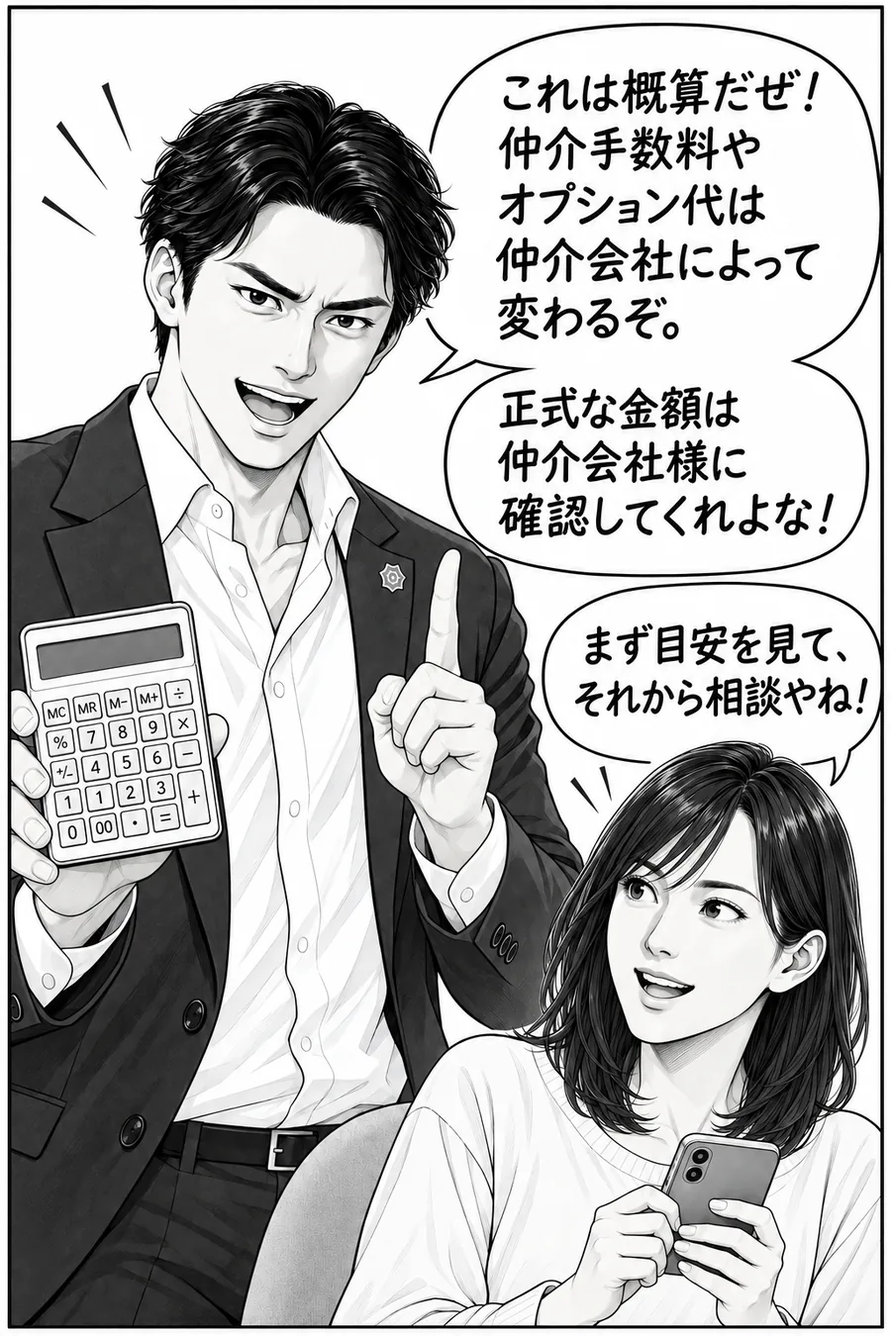
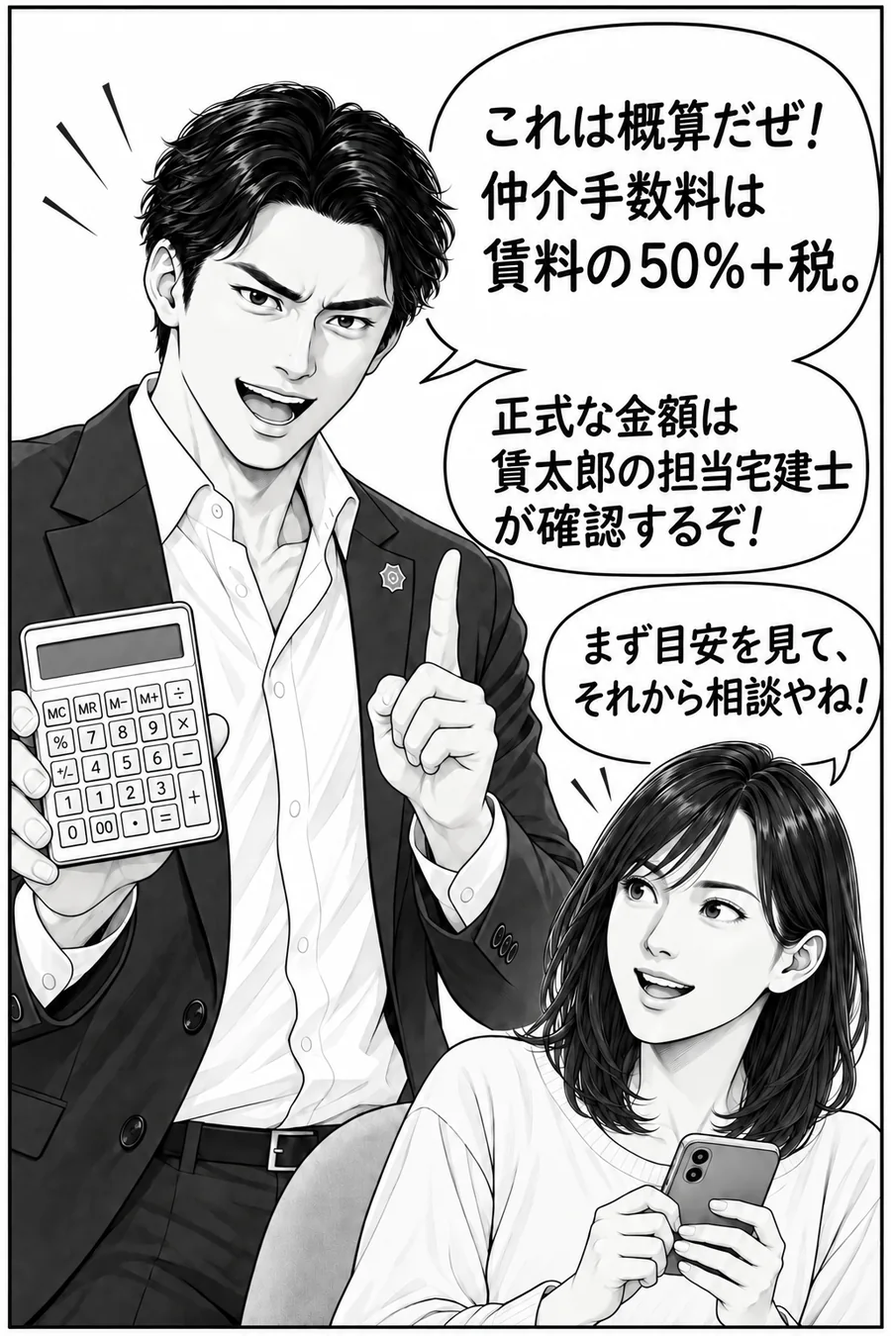
Update Chintaro fee and direct agent guidance

diff --git a/chintaro/index.html b/chintaro/index.html
@@ -1,4 +1,4 @@
 <!doctype html><html lang="ja"><head><meta charset="utf-8"><meta name="viewport" content="width=device-width,initial-scale=1"><link rel="canonical" href="https://lavio.jp/chintaro/"><title>不動産会社様へ | 賃太郎</title><meta name="description" content="初期費用の概算対応を貴社のLINEで。休日の営業担当者を描く漫画と、賃太郎の導入案内。"><style>
 *{box-sizing:border-box}html{color:#172b43;background:#f4f6f8;font-family:-apple-system,BlinkMacSystemFont,'Hiragino Kaku Gothic ProN','Noto Sans JP',sans-serif}body{margin:0}header{background:white;border-bottom:1px solid #e5e9ed;padding:17px 20px;font-weight:700}header a{color:inherit;text-decoration:none}main{max-width:640px;margin:auto;padding:36px 16px 48px}.intro{text-align:center;margin-bottom:30px}.label{font-size:13px;color:#516982;letter-spacing:.1em}h1{font-size:clamp(25px,6vw,34px);line-height:1.5;margin:12px 0}p{font-size:15px;line-height:1.9}.intro p{color:#53657a}.cta{display:inline-block;background:#087a4b;color:white;font-weight:700;padding:17px 23px;border-radius:12px;text-decoration:none;font-size:16px}.sub{font-size:12px;color:#657488;margin:10px 0}figure{margin:0 0 20px;background:white;border-radius:4px;overflow:hidden;box-shadow:0 2px 12px #172b4309}figure img{width:100%;height:auto;display:block}figcaption{text-align:center;font-size:11px;padding:8px;color:#7b8795}.ending{background:white;padding:28px 20px;text-align:center;border-radius:14px;margin-top:30px}h2{font-size:23px;line-height:1.6}.note{font-size:13px;color:#53657a;text-align:left;border-top:1px solid #e5e9ed;padding-top:18px;margin-top:22px}footer{text-align:center;color:#718095;font-size:12px;padding:20px}a:focus-visible{outline:3px solid #4b8ccb;outline-offset:4px}@media(max-width:420px){main{padding:26px 10px 34px}.intro{padding:0 5px}figure{margin-bottom:14px}.cta{font-size:15px;padding:16px 18px}}
 
-.story-title{text-align:center;margin:0 0 25px}.story-title h1{font-size:28px}.body-section{margin:42px 0;padding:28px 22px;background:white;border-radius:14px}.body-section h2{margin:0 0 18px}.body-section h3{font-size:17px;margin:24px 0 8px}.body-section p{color:#53657a;margin:8px 0}.eyebrow{font-size:12px;color:#718095}.demo{text-align:center}.steps{list-style:none;padding:0;counter-reset:steps}.steps li{counter-increment:steps;padding:14px 0;border-bottom:1px solid #e5e9ed;font-size:15px;line-height:1.8}.steps li:before{content:counter(steps);display:inline-grid;place-items:center;width:25px;height:25px;border-radius:50%;background:#e9f1f8;color:#244d73;font-weight:700;margin-right:10px}.prices{display:grid;grid-template-columns:1fr 1fr;gap:12px}.price{padding:20px 12px;border:1px solid #dfe6ed;border-radius:10px}.price dt{font-size:13px;color:#53657a}.price dd{margin:10px 0 0;font-size:29px;font-weight:800}.price dd small{font-size:16px}.notice{font-size:13px!important}.secondary{display:inline-block;color:#244d73;text-decoration:none;border-bottom:1px solid #9eb0c3;margin-top:14px}.faq details{border-bottom:1px solid #e5e9ed;padding:16px 0}.faq summary{cursor:pointer;font-size:15px;font-weight:700;line-height:1.8}.faq details p{font-size:14px}@media(max-width:420px){.body-section{padding:24px 18px}.price dd{font-size:25px}.story-title h1{font-size:25px}}.sr-only{position:absolute;width:1px;height:1px;overflow:hidden;clip-path:inset(50%)}.character{display:flex;align-items:center;gap:18px;margin:25px 0;padding:20px;background:#f2f6fa;border-radius:12px}.character img{width:112px;height:112px;object-fit:cover;border-radius:50%;flex-shrink:0}.character p{font-size:18px;color:#172b43;font-weight:700;line-height:1.8}.body-section ul{padding-left:20px;color:#53657a;font-size:15px;line-height:1.9}.body-section li{margin:10px 0}@media(max-width:420px){.character{gap:12px;padding:15px}.character img{width:82px;height:82px}.character p{font-size:16px}}.developer-head{display:flex;gap:20px;align-items:center;margin:18px 0}.developer-head img{width:112px;height:140px;object-fit:cover;object-position:center;border-radius:12px}.developer-head h3{font-size:14px;font-weight:400;color:#718095;letter-spacing:.03em;margin:0 0 8px}.interview-item{padding:20px 0;border-bottom:1px solid #e5e9ed}.interview-item h3{font-size:16px;line-height:1.8;margin:0 0 10px}.interview-item p{font-size:15px}.case-label{display:inline-block;font-size:12px;background:#eaf5ee;color:#286147;padding:6px 11px;border-radius:20px}.case-card{text-align:left}.case-card .cta{margin-top:14px}.source{font-size:12px!important}.source a{color:#53657a}@media(max-width:420px){.developer-head{gap:15px}.developer-head img{width:90px;height:115px}}</style></head><body><header><a href="#">賃太郎 <small>｜不動産会社様へ</small></a></header><main><h1 class="sr-only">不動産営業マンのあるある。今日は、家族との時間。</h1><section aria-label="遊園地の漫画・全10コマ"><figure><img src="assets/panel-01.webp" width="900" height="1350" alt="パパ！次、あれ乗ろう！ よっしゃ、行こう！" loading="eager" decoding="async"><figcaption>01 / 10</figcaption></figure><figure><img src="assets/panel-02.webp" width="900" height="1350" alt="Customer chat: この3件、初期費用を知りたいです！ / Sound effect: ピコン" loading="lazy" decoding="async"><figcaption>02 / 10</figcaption></figure><figure><img src="assets/panel-03.webp" width="900" height="1350" alt="Father thought: 見積もりか…今すぐ作らないと。 / Father thought: うわっ、しかも3件も…！" loading="lazy" decoding="async"><figcaption>03 / 10</figcaption></figure><figure><img src="assets/panel-04.webp" width="900" height="1350" alt="Wife: また仕事？休みなんだから、帰ってからにしたら？" loading="lazy" decoding="async"><figcaption>04 / 10</figcaption></figure><figure><img src="assets/panel-05.webp" width="900" height="1350" alt="Father: でも、今送らないと他社に行かれてしまうんだ… / Son: パパ、一緒に乗らないの？" loading="lazy" decoding="async"><figcaption>05 / 10</figcaption></figure><figure><img src="assets/panel-06.webp" width="900" height="1350" alt="Chintaro phone: こいつが初期費用の概算だぜ！ / Father: え？もう返信されてる！" loading="lazy" decoding="async"><figcaption>06 / 10</figcaption></figure><figure><img src="assets/panel-07.webp" width="900" height="1350" alt="あ！会社のLINEに、賃太郎を入れたんだった！ 初期費用の概算は、俺に任せときな！" loading="lazy" decoding="async"><figcaption>07 / 10</figcaption></figure><figure><img src="assets/panel-08.webp" width="900" height="1350" alt="Customer chat: ありがとうございます！まず目安が分かって助かりました！ / Father thought: よかった。正式な条件確認は、戻ってから対応しよう" loading="lazy" decoding="async"><figcaption>08 / 10</figcaption></figure><figure><img src="assets/panel-09.webp" width="900" height="1350" alt="Father: お待たせ！一緒に乗ろう！ / Son: やったー！" loading="lazy" decoding="async"><figcaption>09 / 10</figcaption></figure><figure><img src="assets/panel-10.webp" width="900" height="1350" alt="Caption: お客様の「今知りたい」に応える。 / Caption: 家族との時間も、大切にする。" loading="lazy" decoding="async"><figcaption>10 / 10</figcaption></figure></section><section class="body-section"><span class="eyebrow">不動産会社様へ</span><h2>初期費用の概算対応、<br>賃太郎に任せませんか？</h2><p>接客中も、営業時間外も、休日も。<br>お客様の「初期費用を知りたい」は届きます。</p><p>そのたびに物件情報を確認して、費用を拾って、日割りを計算して…。お客様が複数の部屋を比較していると、見積もりの数も増えていきます。</p><p>賃太郎は、その初期費用の概算をLINEで自動返信するサービスです。</p><div class="character"><img src="assets/chintaro.webp" width="360" height="360" alt="AI社員・賃太郎" loading="lazy"><p>「初期費用の概算は、<br>俺に任せときな！」</p></div><h3>貴社のLINEに、概算を案内する窓口を。</h3><p>お客様がSUUMOの物件URLと入居希望日を送ると、掲載情報に基づく初期費用の概算を案内します。</p><p>営業担当者様がすぐに動けないときも、お客様は用意するお金の目安を確認できます。</p></section><style>.cost-organizer h2{font-size:27px;line-height:1.55}.cost-organizer .cost-lead{font-size:15px;margin-bottom:24px}.cost-step{margin:22px 0 10px;display:flex;gap:9px;align-items:center;font-size:14px;font-weight:700;color:#244d73}.cost-step b{display:inline-grid;place-items:center;width:26px;height:26px;border-radius:50%;background:#e8f0f6;font-size:12px}.cost-source{padding:16px;background:#f3f5f7;border-radius:9px;color:#53657a;font-size:14px;line-height:1.8}.cost-categories{display:grid;grid-template-columns:repeat(2,minmax(0,1fr));gap:10px}.cost-category{padding:16px 13px;border:1px solid #e0e6eb;border-radius:9px;background:#fff}.cost-category strong{display:block;font-size:16px;color:#244d73}.cost-category span{display:block;margin-top:7px;font-size:12px;line-height:1.7;color:#647386}.cost-category.initial{border:2px solid #57a58b;background:#f1faf6}.cost-category.initial strong{color:#23775b}.cost-result{padding:22px 16px;text-align:center;background:#eaf6f0;border-radius:10px;border:1px solid #c7e4d5}.cost-result span{display:block;font-size:13px;color:#476b5b;line-height:1.8}.cost-result strong{display:block;font-size:22px;line-height:1.6;color:#236549;margin-top:9px}.cost-organizer .cost-note{margin-top:16px;font-size:12px;line-height:1.8}@media(max-width:480px){.cost-organizer h2{font-size:24px}.cost-category{padding:14px 10px}.cost-category strong{font-size:15px}.cost-result strong{font-size:20px}}</style><section class="body-section cost-organizer"><h2>初期費用に必要な金額を、<br>見分けて計算。</h2><p class="cost-lead">文章に混在した費用を、支払う時期ごとに整理します。</p><div class="cost-step"><b>1</b>金額と条件を読み取る</div><div class="cost-source">SUUMOの掲載情報<br>家賃・保証料・保険料・各種手数料…</div><div class="cost-step"><b>2</b>4つの支払時期に分類</div><div class="cost-categories" aria-label="費用の分類例"><div class="cost-category"><strong>毎月</strong><span>家賃・月額保証料など</span></div><div class="cost-category initial"><strong>初期</strong><span>敷金・礼金・初回保証料など</span></div><div class="cost-category"><strong>更新時</strong><span>更新料・更新保証料など</span></div><div class="cost-category"><strong>退去時</strong><span>退去時に支払う清掃費など</span></div></div><div class="cost-step"><b>3</b>契約時に必要な分を合計</div><div class="cost-result"><span>初期の費用 ＋ 日割り・前払い分</span><strong>初期費用の概算を算出</strong></div><p class="cost-note">※分類は掲載条件によります。月額費用も、日割り・前払い分は初期費用に含めます。<br>不明な費用は確認事項として表示。正式な金額は仲介会社様でご確認ください。</p></section><section class="body-section"><h2>お客様は目安を確認。<br>担当者様は、ご相談やご案内へ。</h2><p>「まず金額だけ知りたい」というお客様には、賃太郎が概算を案内。正式な費用の確認、物件のご相談、内見や契約の対応は、仲介会社様が行います。</p><p>概算対応を自動化して、担当者様が接客やご案内に使える時間をつくります。</p><h3>こんな場面で使えます</h3><ul><li>接客中で、すぐに見積もりを作れないとき</li><li>営業時間外に、初期費用の問い合わせが届いたとき</li><li>お客様が、気になる部屋の費用を比較したいとき</li></ul></section><style>.body-section.experience{background:#18334b;color:#fff;padding:34px 26px;border-radius:16px}.experience .experience-tag{display:inline-block;font-size:12px;letter-spacing:.08em;color:#bce9df;margin-bottom:18px}.body-section.experience h2{font-size:30px;line-height:1.55;color:#fff;margin-bottom:24px}.experience h2 span{color:#a5ead4}.body-section.experience p{color:#e0e9ef;font-weight:400;line-height:1.95;font-size:15px}.experience-flow{display:flex;align-items:center;gap:8px;margin-bottom:24px}.experience-flow span{flex:1;text-align:center;padding:13px 8px;background:#ffffff12;border:1px solid #ffffff25;border-radius:8px;font-size:12px;font-weight:700}.experience-flow b{color:#a5ead4}@media(max-width:480px){.body-section.experience{padding:28px 20px}.body-section.experience h2{font-size:25px}.experience-flow{flex-direction:column;gap:5px}.experience-flow span{width:100%;box-sizing:border-box}.experience-flow b{transform:rotate(90deg);font-size:14px}}</style><section class="body-section experience"><span class="experience-tag">貴社のLINEに、新しい体験を。</span><h2>連絡するLINEから、<br><span>体験できるLINEへ。</span></h2><div class="experience-flow"><span>自分で操作</span><b aria-hidden="true">→</b><span>費用の目安を確認</span><b aria-hidden="true">→</b><span>他社との違いを体験</span></div><p>LINE公式アカウントの役割は、連絡や資料のやり取りだけではありません。</p><p>お客様が自分で物件URLを送り、初期費用の目安を確認できる。賃太郎を導入すると、貴社のLINEに、お客様自身が操作して体験できる機能が加わります。</p><p>便利さを説明するだけでなく、実際に使って感じていただく。その体験が、他社との違いを伝え、貴社のLINE公式アカウントを差別化するきっかけになります。</p></section><section class="body-section"><h2>お客様の操作は、シンプル。</h2><ol class="steps"><li>SUUMOの物件URLを送信</li><li>入居希望日を送信</li><li>初期費用の概算を確認</li></ol><a class="secondary" href="https://lavio.jp/chintaro/how-to/">お客様向けの使い方を見る →</a></section><section class="body-section demo"><h2>まずは実際の物件で、<br>お試しください。</h2><p>デモLINEにSUUMOの物件URLを送って、<br>お客様に届く概算をご確認いただけます。</p><a class="cta" href="https://line.me/R/ti/p/@693ywjds">賃太郎を実際に試してみる</a></section><section class="body-section" id="developer"><span class="eyebrow">開発・運営</span><h2>AIで、不動産会社様の<br>業務をアシストしたい。</h2><div class="developer-head"><img src="assets/developer-ogawa.webp" width="400" height="500" loading="lazy" alt="開発・運営 小川裕介"><div><h3>Yusuke Ogawa</h3><p>AI Realty Assist 開発・運営</p></div></div><ul><li>元 大東建託株式会社 マーケティング企画課長</li><li>元 大東建託リーシング株式会社 梅田店長</li></ul><p>不動産の現場で培った経験をもとに、AIで不動産会社様の業務をアシストしたいと考えています。</p><p>日々の対応の負担を減らし、お客様と向き合う時間をつくる。そのために、現場で役立つ機能の開発・改善に取り組んでいます。</p></section><section class="body-section" id="interview"><span class="eyebrow">開発者インタビュー</span><h2>なぜ、初期費用の概算を<br>自動化したのか。</h2><article class="interview-item"><h3>Q. 以前、一番困っていたことは？</h3><p>初期費用をExcelで作り、PDFにして送るまでに時間がかかることです。せっかく作っても、送る頃には他社が先に回答していることがありました。</p></article><article class="interview-item"><h3>Q. 自動見積もりで何が変わりましたか？</h3><p>お客様が物件URLと入居希望日を送れば、AIが先に概算を返します。担当者は外出先で内容を確認し、必要があれば補足するだけになりました。</p></article><article class="interview-item"><h3>Q. どんな会社に向いていますか？</h3><p>SNSから公式LINEへ見込み客を集めている、中小・個人経営の賃貸仲介会社です。LINEを連絡窓口から「お客様が使える機能」に変えられます。</p></article><article class="interview-item"><h3>Q. なぜ今、この機能が必要ですか？</h3><p>今は、お客様自身がポータルサイトで物件を探し、不動産会社へ確認する時代です。その行動に合った、速くて分かりやすい窓口が必要だと考えています。</p></article></section><section class="body-section case-card" id="rabio-case"><span class="case-label">導入事例</span><h2 style="margin-top:16px">実際に現場で導入されている<br>事例を見る</h2><p>大東建託物件専門「らびお」の公式LINE</p><a class="cta" href="https://lin.ee/6dwYhc3">導入事例を見る</a></section><section class="body-section"><h2>賃太郎の導入料金</h2><dl class="prices"><div class="price"><dt>初期設定料</dt><dd>29,700<small>円</small></dd></div><div class="price"><dt>月額料金</dt><dd>なし</dd></div></dl><p>貴社のLINE公式アカウントで、賃貸初期費用の概算機能をご利用いただくプランです。</p><style>.customize{margin-top:24px;padding:22px 20px;background:#f2f7fa;border-left:4px solid #4f91ae;border-radius:0 10px 10px 0}.customize h3{margin:0 0 10px;font-size:20px;color:#244d73}.customize p{font-size:14px}.customize ul{padding-left:20px;margin:14px 0 0;color:#53657a;font-size:14px;line-height:1.9}</style><aside class="customize"><h3>貴社仕様の賃太郎に。</h3><p>仲介手数料の設定、AIの名前、予約・確認へのご案内まで。<br>貴社の運用に合わせてカスタマイズできます。</p><ul><li>仲介手数料：貴社の料金設定に</li><li>AI名：「賃太郎」からお好きな名前に</li><li>予約・確認の導線：貴社の受付方法に</li></ul></aside></section><section class="body-section faq"><h2>よくあるご質問</h2><details><summary>SUUMO以外のサイトでもできますか？</summary><p>現在はSUUMOのみ対応しています。他のポータルサイトにも順次対応を進めていきます。</p></details></section><section class="body-section"><h2>概算見積もりについて</h2><p class="notice">掲載情報に基づく概算のため、情報の不足や審査・契約条件によって、実際の支払額とは異なる場合があります。正式な金額は仲介会社様でご確認ください。</p><p class="notice">仲介手数料は賃料1か月分（税別）で計算しています。仲介手数料・駐車場手数料・その他オプション費用は、仲介会社によって設定が異なります。</p></section><section class="body-section demo"><h2>導入について、ご相談ください。</h2><p>LINEで「導入相談」とお送りください。<br>運営より後ほどメッセージをお送りいたします。</p><p>ご質問や、導入したいLINEアカウントについても、あわせてお知らせください。</p><a class="cta" href="https://line.me/R/ti/p/@693ywjds">LINEで導入を相談する</a><h3>他業種の方も、ご相談いただけます。</h3><p class="notice">LINEを使った業務についてのご相談も承ります。業種と、ご希望の内容をお送りください。</p></section></main><footer>賃太郎 ｜ 運営：AIRA</footer></body></html>
+.story-title{text-align:center;margin:0 0 25px}.story-title h1{font-size:28px}.body-section{margin:42px 0;padding:28px 22px;background:white;border-radius:14px}.body-section h2{margin:0 0 18px}.body-section h3{font-size:17px;margin:24px 0 8px}.body-section p{color:#53657a;margin:8px 0}.eyebrow{font-size:12px;color:#718095}.demo{text-align:center}.steps{list-style:none;padding:0;counter-reset:steps}.steps li{counter-increment:steps;padding:14px 0;border-bottom:1px solid #e5e9ed;font-size:15px;line-height:1.8}.steps li:before{content:counter(steps);display:inline-grid;place-items:center;width:25px;height:25px;border-radius:50%;background:#e9f1f8;color:#244d73;font-weight:700;margin-right:10px}.prices{display:grid;grid-template-columns:1fr 1fr;gap:12px}.price{padding:20px 12px;border:1px solid #dfe6ed;border-radius:10px}.price dt{font-size:13px;color:#53657a}.price dd{margin:10px 0 0;font-size:29px;font-weight:800}.price dd small{font-size:16px}.notice{font-size:13px!important}.secondary{display:inline-block;color:#244d73;text-decoration:none;border-bottom:1px solid #9eb0c3;margin-top:14px}.faq details{border-bottom:1px solid #e5e9ed;padding:16px 0}.faq summary{cursor:pointer;font-size:15px;font-weight:700;line-height:1.8}.faq details p{font-size:14px}@media(max-width:420px){.body-section{padding:24px 18px}.price dd{font-size:25px}.story-title h1{font-size:25px}}.sr-only{position:absolute;width:1px;height:1px;overflow:hidden;clip-path:inset(50%)}.character{display:flex;align-items:center;gap:18px;margin:25px 0;padding:20px;background:#f2f6fa;border-radius:12px}.character img{width:112px;height:112px;object-fit:cover;border-radius:50%;flex-shrink:0}.character p{font-size:18px;color:#172b43;font-weight:700;line-height:1.8}.body-section ul{padding-left:20px;color:#53657a;font-size:15px;line-height:1.9}.body-section li{margin:10px 0}@media(max-width:420px){.character{gap:12px;padding:15px}.character img{width:82px;height:82px}.character p{font-size:16px}}.developer-head{display:flex;gap:20px;align-items:center;margin:18px 0}.developer-head img{width:112px;height:140px;object-fit:cover;object-position:center;border-radius:12px}.developer-head h3{font-size:14px;font-weight:400;color:#718095;letter-spacing:.03em;margin:0 0 8px}.interview-item{padding:20px 0;border-bottom:1px solid #e5e9ed}.interview-item h3{font-size:16px;line-height:1.8;margin:0 0 10px}.interview-item p{font-size:15px}.case-label{display:inline-block;font-size:12px;background:#eaf5ee;color:#286147;padding:6px 11px;border-radius:20px}.case-card{text-align:left}.case-card .cta{margin-top:14px}.source{font-size:12px!important}.source a{color:#53657a}@media(max-width:420px){.developer-head{gap:15px}.developer-head img{width:90px;height:115px}}</style></head><body><header><a href="#">賃太郎 <small>｜不動産会社様へ</small></a></header><main><h1 class="sr-only">不動産営業マンのあるある。今日は、家族との時間。</h1><section aria-label="遊園地の漫画・全10コマ"><figure><img src="assets/panel-01.webp" width="900" height="1350" alt="パパ！次、あれ乗ろう！ よっしゃ、行こう！" loading="eager" decoding="async"><figcaption>01 / 10</figcaption></figure><figure><img src="assets/panel-02.webp" width="900" height="1350" alt="Customer chat: この3件、初期費用を知りたいです！ / Sound effect: ピコン" loading="lazy" decoding="async"><figcaption>02 / 10</figcaption></figure><figure><img src="assets/panel-03.webp" width="900" height="1350" alt="Father thought: 見積もりか…今すぐ作らないと。 / Father thought: うわっ、しかも3件も…！" loading="lazy" decoding="async"><figcaption>03 / 10</figcaption></figure><figure><img src="assets/panel-04.webp" width="900" height="1350" alt="Wife: また仕事？休みなんだから、帰ってからにしたら？" loading="lazy" decoding="async"><figcaption>04 / 10</figcaption></figure><figure><img src="assets/panel-05.webp" width="900" height="1350" alt="Father: でも、今送らないと他社に行かれてしまうんだ… / Son: パパ、一緒に乗らないの？" loading="lazy" decoding="async"><figcaption>05 / 10</figcaption></figure><figure><img src="assets/panel-06.webp" width="900" height="1350" alt="Chintaro phone: こいつが初期費用の概算だぜ！ / Father: え？もう返信されてる！" loading="lazy" decoding="async"><figcaption>06 / 10</figcaption></figure><figure><img src="assets/panel-07.webp" width="900" height="1350" alt="あ！会社のLINEに、賃太郎を入れたんだった！ 初期費用の概算は、俺に任せときな！" loading="lazy" decoding="async"><figcaption>07 / 10</figcaption></figure><figure><img src="assets/panel-08.webp" width="900" height="1350" alt="Customer chat: ありがとうございます！まず目安が分かって助かりました！ / Father thought: よかった。正式な条件確認は、戻ってから対応しよう" loading="lazy" decoding="async"><figcaption>08 / 10</figcaption></figure><figure><img src="assets/panel-09.webp" width="900" height="1350" alt="Father: お待たせ！一緒に乗ろう！ / Son: やったー！" loading="lazy" decoding="async"><figcaption>09 / 10</figcaption></figure><figure><img src="assets/panel-10.webp" width="900" height="1350" alt="Caption: お客様の「今知りたい」に応える。 / Caption: 家族との時間も、大切にする。" loading="lazy" decoding="async"><figcaption>10 / 10</figcaption></figure></section><section class="body-section"><span class="eyebrow">不動産会社様へ</span><h2>初期費用の概算対応、<br>賃太郎に任せませんか？</h2><p>接客中も、営業時間外も、休日も。<br>お客様の「初期費用を知りたい」は届きます。</p><p>そのたびに物件情報を確認して、費用を拾って、日割りを計算して…。お客様が複数の部屋を比較していると、見積もりの数も増えていきます。</p><p>賃太郎は、その初期費用の概算をLINEで自動返信するサービスです。</p><div class="character"><img src="assets/chintaro.webp" width="360" height="360" alt="AI社員・賃太郎" loading="lazy"><p>「初期費用の概算は、<br>俺に任せときな！」</p></div><h3>貴社のLINEに、概算を案内する窓口を。</h3><p>お客様がSUUMOの物件URLと入居希望日を送ると、掲載情報に基づく初期費用の概算を案内します。</p><p>営業担当者様がすぐに動けないときも、お客様は用意するお金の目安を確認できます。</p></section><style>.cost-organizer h2{font-size:27px;line-height:1.55}.cost-organizer .cost-lead{font-size:15px;margin-bottom:24px}.cost-step{margin:22px 0 10px;display:flex;gap:9px;align-items:center;font-size:14px;font-weight:700;color:#244d73}.cost-step b{display:inline-grid;place-items:center;width:26px;height:26px;border-radius:50%;background:#e8f0f6;font-size:12px}.cost-source{padding:16px;background:#f3f5f7;border-radius:9px;color:#53657a;font-size:14px;line-height:1.8}.cost-categories{display:grid;grid-template-columns:repeat(2,minmax(0,1fr));gap:10px}.cost-category{padding:16px 13px;border:1px solid #e0e6eb;border-radius:9px;background:#fff}.cost-category strong{display:block;font-size:16px;color:#244d73}.cost-category span{display:block;margin-top:7px;font-size:12px;line-height:1.7;color:#647386}.cost-category.initial{border:2px solid #57a58b;background:#f1faf6}.cost-category.initial strong{color:#23775b}.cost-result{padding:22px 16px;text-align:center;background:#eaf6f0;border-radius:10px;border:1px solid #c7e4d5}.cost-result span{display:block;font-size:13px;color:#476b5b;line-height:1.8}.cost-result strong{display:block;font-size:22px;line-height:1.6;color:#236549;margin-top:9px}.cost-organizer .cost-note{margin-top:16px;font-size:12px;line-height:1.8}@media(max-width:480px){.cost-organizer h2{font-size:24px}.cost-category{padding:14px 10px}.cost-category strong{font-size:15px}.cost-result strong{font-size:20px}}</style><section class="body-section cost-organizer"><h2>初期費用に必要な金額を、<br>見分けて計算。</h2><p class="cost-lead">文章に混在した費用を、支払う時期ごとに整理します。</p><div class="cost-step"><b>1</b>金額と条件を読み取る</div><div class="cost-source">SUUMOの掲載情報<br>家賃・保証料・保険料・各種手数料…</div><div class="cost-step"><b>2</b>4つの支払時期に分類</div><div class="cost-categories" aria-label="費用の分類例"><div class="cost-category"><strong>毎月</strong><span>家賃・月額保証料など</span></div><div class="cost-category initial"><strong>初期</strong><span>敷金・礼金・初回保証料など</span></div><div class="cost-category"><strong>更新時</strong><span>更新料・更新保証料など</span></div><div class="cost-category"><strong>退去時</strong><span>退去時に支払う清掃費など</span></div></div><div class="cost-step"><b>3</b>契約時に必要な分を合計</div><div class="cost-result"><span>初期の費用 ＋ 日割り・前払い分</span><strong>初期費用の概算を算出</strong></div><p class="cost-note">※分類は掲載条件によります。月額費用も、日割り・前払い分は初期費用に含めます。<br>不明な費用は確認事項として表示。正式な金額は仲介会社様でご確認ください。</p></section><section class="body-section"><h2>お客様は目安を確認。<br>担当者様は、ご相談やご案内へ。</h2><p>「まず金額だけ知りたい」というお客様には、賃太郎が概算を案内。正式な費用の確認、物件のご相談、内見や契約の対応は、仲介会社様が行います。</p><p>概算対応を自動化して、担当者様が接客やご案内に使える時間をつくります。</p><h3>こんな場面で使えます</h3><ul><li>接客中で、すぐに見積もりを作れないとき</li><li>営業時間外に、初期費用の問い合わせが届いたとき</li><li>お客様が、気になる部屋の費用を比較したいとき</li></ul></section><style>.body-section.experience{background:#18334b;color:#fff;padding:34px 26px;border-radius:16px}.experience .experience-tag{display:inline-block;font-size:12px;letter-spacing:.08em;color:#bce9df;margin-bottom:18px}.body-section.experience h2{font-size:30px;line-height:1.55;color:#fff;margin-bottom:24px}.experience h2 span{color:#a5ead4}.body-section.experience p{color:#e0e9ef;font-weight:400;line-height:1.95;font-size:15px}.experience-flow{display:flex;align-items:center;gap:8px;margin-bottom:24px}.experience-flow span{flex:1;text-align:center;padding:13px 8px;background:#ffffff12;border:1px solid #ffffff25;border-radius:8px;font-size:12px;font-weight:700}.experience-flow b{color:#a5ead4}@media(max-width:480px){.body-section.experience{padding:28px 20px}.body-section.experience h2{font-size:25px}.experience-flow{flex-direction:column;gap:5px}.experience-flow span{width:100%;box-sizing:border-box}.experience-flow b{transform:rotate(90deg);font-size:14px}}</style><section class="body-section experience"><span class="experience-tag">貴社のLINEに、新しい体験を。</span><h2>連絡するLINEから、<br><span>体験できるLINEへ。</span></h2><div class="experience-flow"><span>自分で操作</span><b aria-hidden="true">→</b><span>費用の目安を確認</span><b aria-hidden="true">→</b><span>他社との違いを体験</span></div><p>LINE公式アカウントの役割は、連絡や資料のやり取りだけではありません。</p><p>お客様が自分で物件URLを送り、初期費用の目安を確認できる。賃太郎を導入すると、貴社のLINEに、お客様自身が操作して体験できる機能が加わります。</p><p>便利さを説明するだけでなく、実際に使って感じていただく。その体験が、他社との違いを伝え、貴社のLINE公式アカウントを差別化するきっかけになります。</p></section><section class="body-section"><h2>お客様の操作は、シンプル。</h2><ol class="steps"><li>SUUMOの物件URLを送信</li><li>入居希望日を送信</li><li>初期費用の概算を確認</li></ol><a class="secondary" href="https://lavio.jp/chintaro/how-to/">お客様向けの使い方を見る →</a></section><section class="body-section demo"><h2>まずは実際の物件で、<br>お試しください。</h2><p>デモLINEにSUUMOの物件URLを送って、<br>お客様に届く概算をご確認いただけます。</p><a class="cta" href="https://line.me/R/ti/p/@693ywjds">賃太郎を実際に試してみる</a></section><section class="body-section" id="developer"><span class="eyebrow">開発・運営</span><h2>AIで、不動産会社様の<br>業務をアシストしたい。</h2><div class="developer-head"><img src="assets/developer-ogawa.webp" width="400" height="500" loading="lazy" alt="開発・運営 小川裕介"><div><h3>Yusuke Ogawa</h3><p>AI Realty Assist 開発・運営</p></div></div><ul><li>元 大東建託株式会社 マーケティング企画課長</li><li>元 大東建託リーシング株式会社 梅田店長</li></ul><p>不動産の現場で培った経験をもとに、AIで不動産会社様の業務をアシストしたいと考えています。</p><p>日々の対応の負担を減らし、お客様と向き合う時間をつくる。そのために、現場で役立つ機能の開発・改善に取り組んでいます。</p></section><section class="body-section" id="interview"><span class="eyebrow">開発者インタビュー</span><h2>なぜ、初期費用の概算を<br>自動化したのか。</h2><article class="interview-item"><h3>Q. 以前、一番困っていたことは？</h3><p>初期費用をExcelで作り、PDFにして送るまでに時間がかかることです。せっかく作っても、送る頃には他社が先に回答していることがありました。</p></article><article class="interview-item"><h3>Q. 自動見積もりで何が変わりましたか？</h3><p>お客様が物件URLと入居希望日を送れば、AIが先に概算を返します。担当者は外出先で内容を確認し、必要があれば補足するだけになりました。</p></article><article class="interview-item"><h3>Q. どんな会社に向いていますか？</h3><p>SNSから公式LINEへ見込み客を集めている、中小・個人経営の賃貸仲介会社です。LINEを連絡窓口から「お客様が使える機能」に変えられます。</p></article><article class="interview-item"><h3>Q. なぜ今、この機能が必要ですか？</h3><p>今は、お客様自身がポータルサイトで物件を探し、不動産会社へ確認する時代です。その行動に合った、速くて分かりやすい窓口が必要だと考えています。</p></article></section><section class="body-section case-card" id="rabio-case"><span class="case-label">導入事例</span><h2 style="margin-top:16px">実際に現場で導入されている<br>事例を見る</h2><p>大東建託物件専門「らびお」の公式LINE</p><a class="cta" href="https://lin.ee/6dwYhc3">導入事例を見る</a></section><section class="body-section"><h2>賃太郎の導入料金</h2><dl class="prices"><div class="price"><dt>初期設定料</dt><dd>29,700<small>円</small></dd></div><div class="price"><dt>月額料金</dt><dd>なし</dd></div></dl><p>貴社のLINE公式アカウントで、賃貸初期費用の概算機能をご利用いただくプランです。</p><style>.customize{margin-top:24px;padding:22px 20px;background:#f2f7fa;border-left:4px solid #4f91ae;border-radius:0 10px 10px 0}.customize h3{margin:0 0 10px;font-size:20px;color:#244d73}.customize p{font-size:14px}.customize ul{padding-left:20px;margin:14px 0 0;color:#53657a;font-size:14px;line-height:1.9}</style><aside class="customize"><h3>貴社仕様の賃太郎に。</h3><p>仲介手数料の設定、AIの名前、予約・確認へのご案内まで。<br>貴社の運用に合わせてカスタマイズできます。</p><ul><li>仲介手数料：貴社の料金設定に</li><li>AI名：「賃太郎」からお好きな名前に</li><li>予約・確認の導線：貴社の受付方法に</li></ul></aside></section><section class="body-section faq"><h2>よくあるご質問</h2><details><summary>SUUMO以外のサイトでもできますか？</summary><p>現在はSUUMOのみ対応しています。他のポータルサイトにも順次対応を進めていきます。</p></details></section><section class="body-section"><h2>概算見積もりについて</h2><p class="notice">掲載情報に基づく概算のため、情報の不足や審査・契約条件によって、実際の支払額とは異なる場合があります。正式な金額と取扱可否は賃太郎の担当宅建士が確認します。</p><p class="notice">このデモLINEの仲介手数料は賃料の50％（税別）で計算しています。駐車場やオプション費用など、掲載情報だけで確定できない項目は担当宅建士が確認します。</p></section><section class="body-section demo"><h2>導入について、ご相談ください。</h2><p>LINEで「導入相談」とお送りください。<br>運営より後ほどメッセージをお送りいたします。</p><p>ご質問や、導入したいLINEアカウントについても、あわせてお知らせください。</p><a class="cta" href="https://line.me/R/ti/p/@693ywjds">LINEで導入を相談する</a><h3>他業種の方も、ご相談いただけます。</h3><p class="notice">LINEを使った業務についてのご相談も承ります。業種と、ご希望の内容をお送りください。</p></section></main><footer>賃太郎 ｜ 運営：AIRA</footer></body></html>

diff --git a/chintaro/how-to/index.html b/chintaro/how-to/index.html
@@ -1,3 +1,3 @@
 <!doctype html><html lang="ja"><head><meta charset="utf-8"><meta name="viewport" content="width=device-width,initial-scale=1"><link rel="canonical" href="https://lavio.jp/chintaro/how-to/"><title>漫画でわかる使い方 | 賃太郎</title><meta name="description" content="不動産会社に問い合わせる前に、SUUMOのURLから賃貸初期費用の目安を確認。賃太郎の使い方を漫画でご案内します。"><style>
 *{box-sizing:border-box}html{color:#172b43;background:#f4f6f8;font-family:-apple-system,BlinkMacSystemFont,'Hiragino Kaku Gothic ProN','Noto Sans JP',sans-serif}body{margin:0}header{background:white;border-bottom:1px solid #e5e9ed;padding:17px 20px;font-weight:700}header a{color:inherit;text-decoration:none}main{max-width:640px;margin:auto;padding:36px 16px 48px}.intro{text-align:center;margin-bottom:30px}.label{font-size:13px;color:#516982;letter-spacing:.1em}h1{font-size:clamp(25px,6vw,34px);line-height:1.5;margin:12px 0}p{font-size:15px;line-height:1.9}.intro p{color:#53657a}.cta{display:inline-block;background:#087a4b;color:white;font-weight:700;padding:17px 23px;border-radius:12px;text-decoration:none;font-size:16px}.sub{font-size:12px;color:#657488;margin:10px 0}figure{margin:0 0 20px;background:white;border-radius:4px;overflow:hidden;box-shadow:0 2px 12px #172b4309}figure img{width:100%;height:auto;display:block}figcaption{text-align:center;font-size:11px;padding:8px;color:#7b8795}.ending{background:white;padding:28px 20px;text-align:center;border-radius:14px;margin-top:30px}h2{font-size:23px;line-height:1.6}.note{font-size:13px;color:#53657a;text-align:left;border-top:1px solid #e5e9ed;padding-top:18px;margin-top:22px}footer{text-align:center;color:#718095;font-size:12px;padding:20px}a:focus-visible{outline:3px solid #4b8ccb;outline-offset:4px}@media(max-width:420px){main{padding:26px 10px 34px}.intro{padding:0 5px}figure{margin-bottom:14px}.cta{font-size:15px;padding:16px 18px}}
-</style></head><body><header><a href="#">賃太郎 <small>｜漫画でわかる使い方</small></a></header><main><section class="intro"><span class="label">賃貸物件の初期費用を概算</span><h1>不動産会社に問い合わせる前に<br>初期費用知りたくない？</h1><p>気になる部屋のSUUMOのURLを送って、<br>用意するお金の目安を確認しよう。</p><a class="cta" href="https://line.me/R/ti/p/@693ywjds">LINEで初期費用を見積もる</a><p class="sub">使い方は、この下の漫画でチェック！</p></section><section aria-label="賃太郎の使い方・全12コマ"><figure><img src="assets/panel-01.webp" width="900" height="1350" alt="Woman: この部屋いいな！駅も近いし！" loading="eager" decoding="async"><figcaption>01 / 12</figcaption></figure><figure><img src="assets/panel-02.webp" width="900" height="1350" alt="Woman: でも、最初にいくら必要なんやろ？ / 家賃だけじゃ分からんなぁ" loading="lazy" decoding="async"><figcaption>02 / 12</figcaption></figure><figure><img src="assets/panel-03.webp" width="900" height="1350" alt="Woman: まだ借りるって決めてないし… / 電話とかメールがいっぱい来たら嫌やな" loading="lazy" decoding="async"><figcaption>03 / 12</figcaption></figure><figure><img src="assets/panel-04.webp" width="900" height="1350" alt="Phone notice: 不動産会社に問い合わせる前に 初期費用知りたくない？ / Woman: え、問い合わせる前に分かるん？" loading="lazy" decoding="async"><figcaption>04 / 12</figcaption></figure><figure><img src="assets/panel-05.webp" width="900" height="1350" alt="おう！気になる部屋のSUUMOのURLを送ってくれ！ URLだけでいいん？" loading="lazy" decoding="async"><figcaption>05 / 12</figcaption></figure><figure><img src="assets/panel-06.webp" width="900" height="1350" alt="Woman: この部屋のページをコピーして… / Small caption: ① SUUMOの物件URLをコピー" loading="lazy" decoding="async"><figcaption>06 / 12</figcaption></figure><figure><img src="assets/panel-07.webp" width="900" height="1350" alt="Woman: 賃太郎のLINEに貼って、送信！ / Small caption: ② LINEにURLを送信" loading="lazy" decoding="async"><figcaption>07 / 12</figcaption></figure><figure><img src="assets/panel-08.webp" width="900" height="1350" alt="Phone Chintaro: よし、次は入居希望日を送ってくれ！ / Phone woman: 10月3日 / Small caption: ③ 入居希望日を送信" loading="lazy" decoding="async"><figcaption>08 / 12</figcaption></figure><figure><img src="assets/panel-09.webp" width="900" height="1350" alt="Phone Chintaro: こいつが初期費用の概算だぜ！ / Woman: もう出た！用意するお金の目安が分かる！" loading="lazy" decoding="async"><figcaption>09 / 12</figcaption></figure><figure><img src="assets/panel-10.webp" width="900" height="1350" alt="Woman: 内訳も見たいな。詳しく！ / Phone Chintaro: おう、こいつが内訳だ！" loading="lazy" decoding="async"><figcaption>10 / 12</figcaption></figure><figure><img src="assets/panel-11.webp" width="900" height="1350" alt="Chintaro: これは概算だぜ！仲介手数料やオプション代は仲介会社によって変わるぞ。 / Chintaro: 正式な金額は仲介会社様に確認してくれよな！ / Woman: まず目安を見て、それから相談やね！" loading="lazy" decoding="async"><figcaption>11 / 12</figcaption></figure><figure><img src="assets/panel-12.webp" width="900" height="1350" alt="Woman: もう一つ気になってた部屋も見てみよ！ / Chintaro: 気になる部屋のURL、送ってくれ！" loading="lazy" decoding="async"><figcaption>12 / 12</figcaption></figure></section><section class="ending"><h2>その部屋の初期費用、<br>賃太郎に任せて！</h2><p>SUUMOの物件URLをコピーして、<br>賃太郎のLINEに送ってくれ！</p><a class="cta" href="https://line.me/R/ti/p/@693ywjds">LINEで初期費用を見積もる</a><div class="note">掲載情報に基づく概算です。実際の支払額は、掲載情報や審査・契約条件によって異なります。正式な金額は仲介会社様にご確認ください。<br>仲介手数料は賃料1か月分（税別）で計算しています。仲介手数料・駐車場手数料・その他オプション費用は、仲介会社によって設定が異なります。</div></section></main><footer>賃太郎 ｜ 運営：AIRA</footer></body></html>
+</style></head><body><header><a href="#">賃太郎 <small>｜漫画でわかる使い方</small></a></header><main><section class="intro"><span class="label">賃貸物件の初期費用を概算</span><h1>不動産会社に問い合わせる前に<br>初期費用知りたくない？</h1><p>気になる部屋のSUUMOのURLを送って、<br>用意するお金の目安を確認しよう。</p><a class="cta" href="https://line.me/R/ti/p/@693ywjds">LINEで初期費用を見積もる</a><p class="sub">使い方は、この下の漫画でチェック！</p></section><section aria-label="賃太郎の使い方・全12コマ"><figure><img src="assets/panel-01.webp" width="900" height="1350" alt="Woman: この部屋いいな！駅も近いし！" loading="eager" decoding="async"><figcaption>01 / 12</figcaption></figure><figure><img src="assets/panel-02.webp" width="900" height="1350" alt="Woman: でも、最初にいくら必要なんやろ？ / 家賃だけじゃ分からんなぁ" loading="lazy" decoding="async"><figcaption>02 / 12</figcaption></figure><figure><img src="assets/panel-03.webp" width="900" height="1350" alt="Woman: まだ借りるって決めてないし… / 電話とかメールがいっぱい来たら嫌やな" loading="lazy" decoding="async"><figcaption>03 / 12</figcaption></figure><figure><img src="assets/panel-04.webp" width="900" height="1350" alt="Phone notice: 不動産会社に問い合わせる前に 初期費用知りたくない？ / Woman: え、問い合わせる前に分かるん？" loading="lazy" decoding="async"><figcaption>04 / 12</figcaption></figure><figure><img src="assets/panel-05.webp" width="900" height="1350" alt="おう！気になる部屋のSUUMOのURLを送ってくれ！ URLだけでいいん？" loading="lazy" decoding="async"><figcaption>05 / 12</figcaption></figure><figure><img src="assets/panel-06.webp" width="900" height="1350" alt="Woman: この部屋のページをコピーして… / Small caption: ① SUUMOの物件URLをコピー" loading="lazy" decoding="async"><figcaption>06 / 12</figcaption></figure><figure><img src="assets/panel-07.webp" width="900" height="1350" alt="Woman: 賃太郎のLINEに貼って、送信！ / Small caption: ② LINEにURLを送信" loading="lazy" decoding="async"><figcaption>07 / 12</figcaption></figure><figure><img src="assets/panel-08.webp" width="900" height="1350" alt="Phone Chintaro: よし、次は入居希望日を送ってくれ！ / Phone woman: 10月3日 / Small caption: ③ 入居希望日を送信" loading="lazy" decoding="async"><figcaption>08 / 12</figcaption></figure><figure><img src="assets/panel-09.webp" width="900" height="1350" alt="Phone Chintaro: こいつが初期費用の概算だぜ！ / Woman: もう出た！用意するお金の目安が分かる！" loading="lazy" decoding="async"><figcaption>09 / 12</figcaption></figure><figure><img src="assets/panel-10.webp" width="900" height="1350" alt="Woman: 内訳も見たいな。詳しく！ / Phone Chintaro: おう、こいつが内訳だ！" loading="lazy" decoding="async"><figcaption>10 / 12</figcaption></figure><figure><img src="assets/panel-11.webp" width="900" height="1350" alt="賃太郎: これは概算だぜ！仲介手数料は賃料の50%＋税。 / 賃太郎: 正式な金額は賃太郎の担当宅建士が確認するぞ！ / 女性: まず目安を見て、それから相談やね！" loading="lazy" decoding="async"><figcaption>11 / 12</figcaption></figure><figure><img src="assets/panel-12.webp" width="900" height="1350" alt="Woman: もう一つ気になってた部屋も見てみよ！ / Chintaro: 気になる部屋のURL、送ってくれ！" loading="lazy" decoding="async"><figcaption>12 / 12</figcaption></figure></section><section class="ending"><h2>その部屋の初期費用、<br>賃太郎に任せて！</h2><p>SUUMOの物件URLをコピーして、<br>賃太郎のLINEに送ってくれ！</p><a class="cta" href="https://line.me/R/ti/p/@693ywjds">LINEで初期費用を見積もる</a><div class="note">掲載情報に基づく概算です。実際の支払額は、掲載情報や審査・契約条件によって異なります。正式な金額と取扱可否は賃太郎の担当宅建士が確認します。<br>仲介手数料は賃料の50％（税別）で計算しています。遠方の物件は現地内見を案内できない場合があり、取扱可否の確認に時間がかかることもあります。</div></section></main><footer>賃太郎 ｜ 運営：AIRA</footer></body></html>
